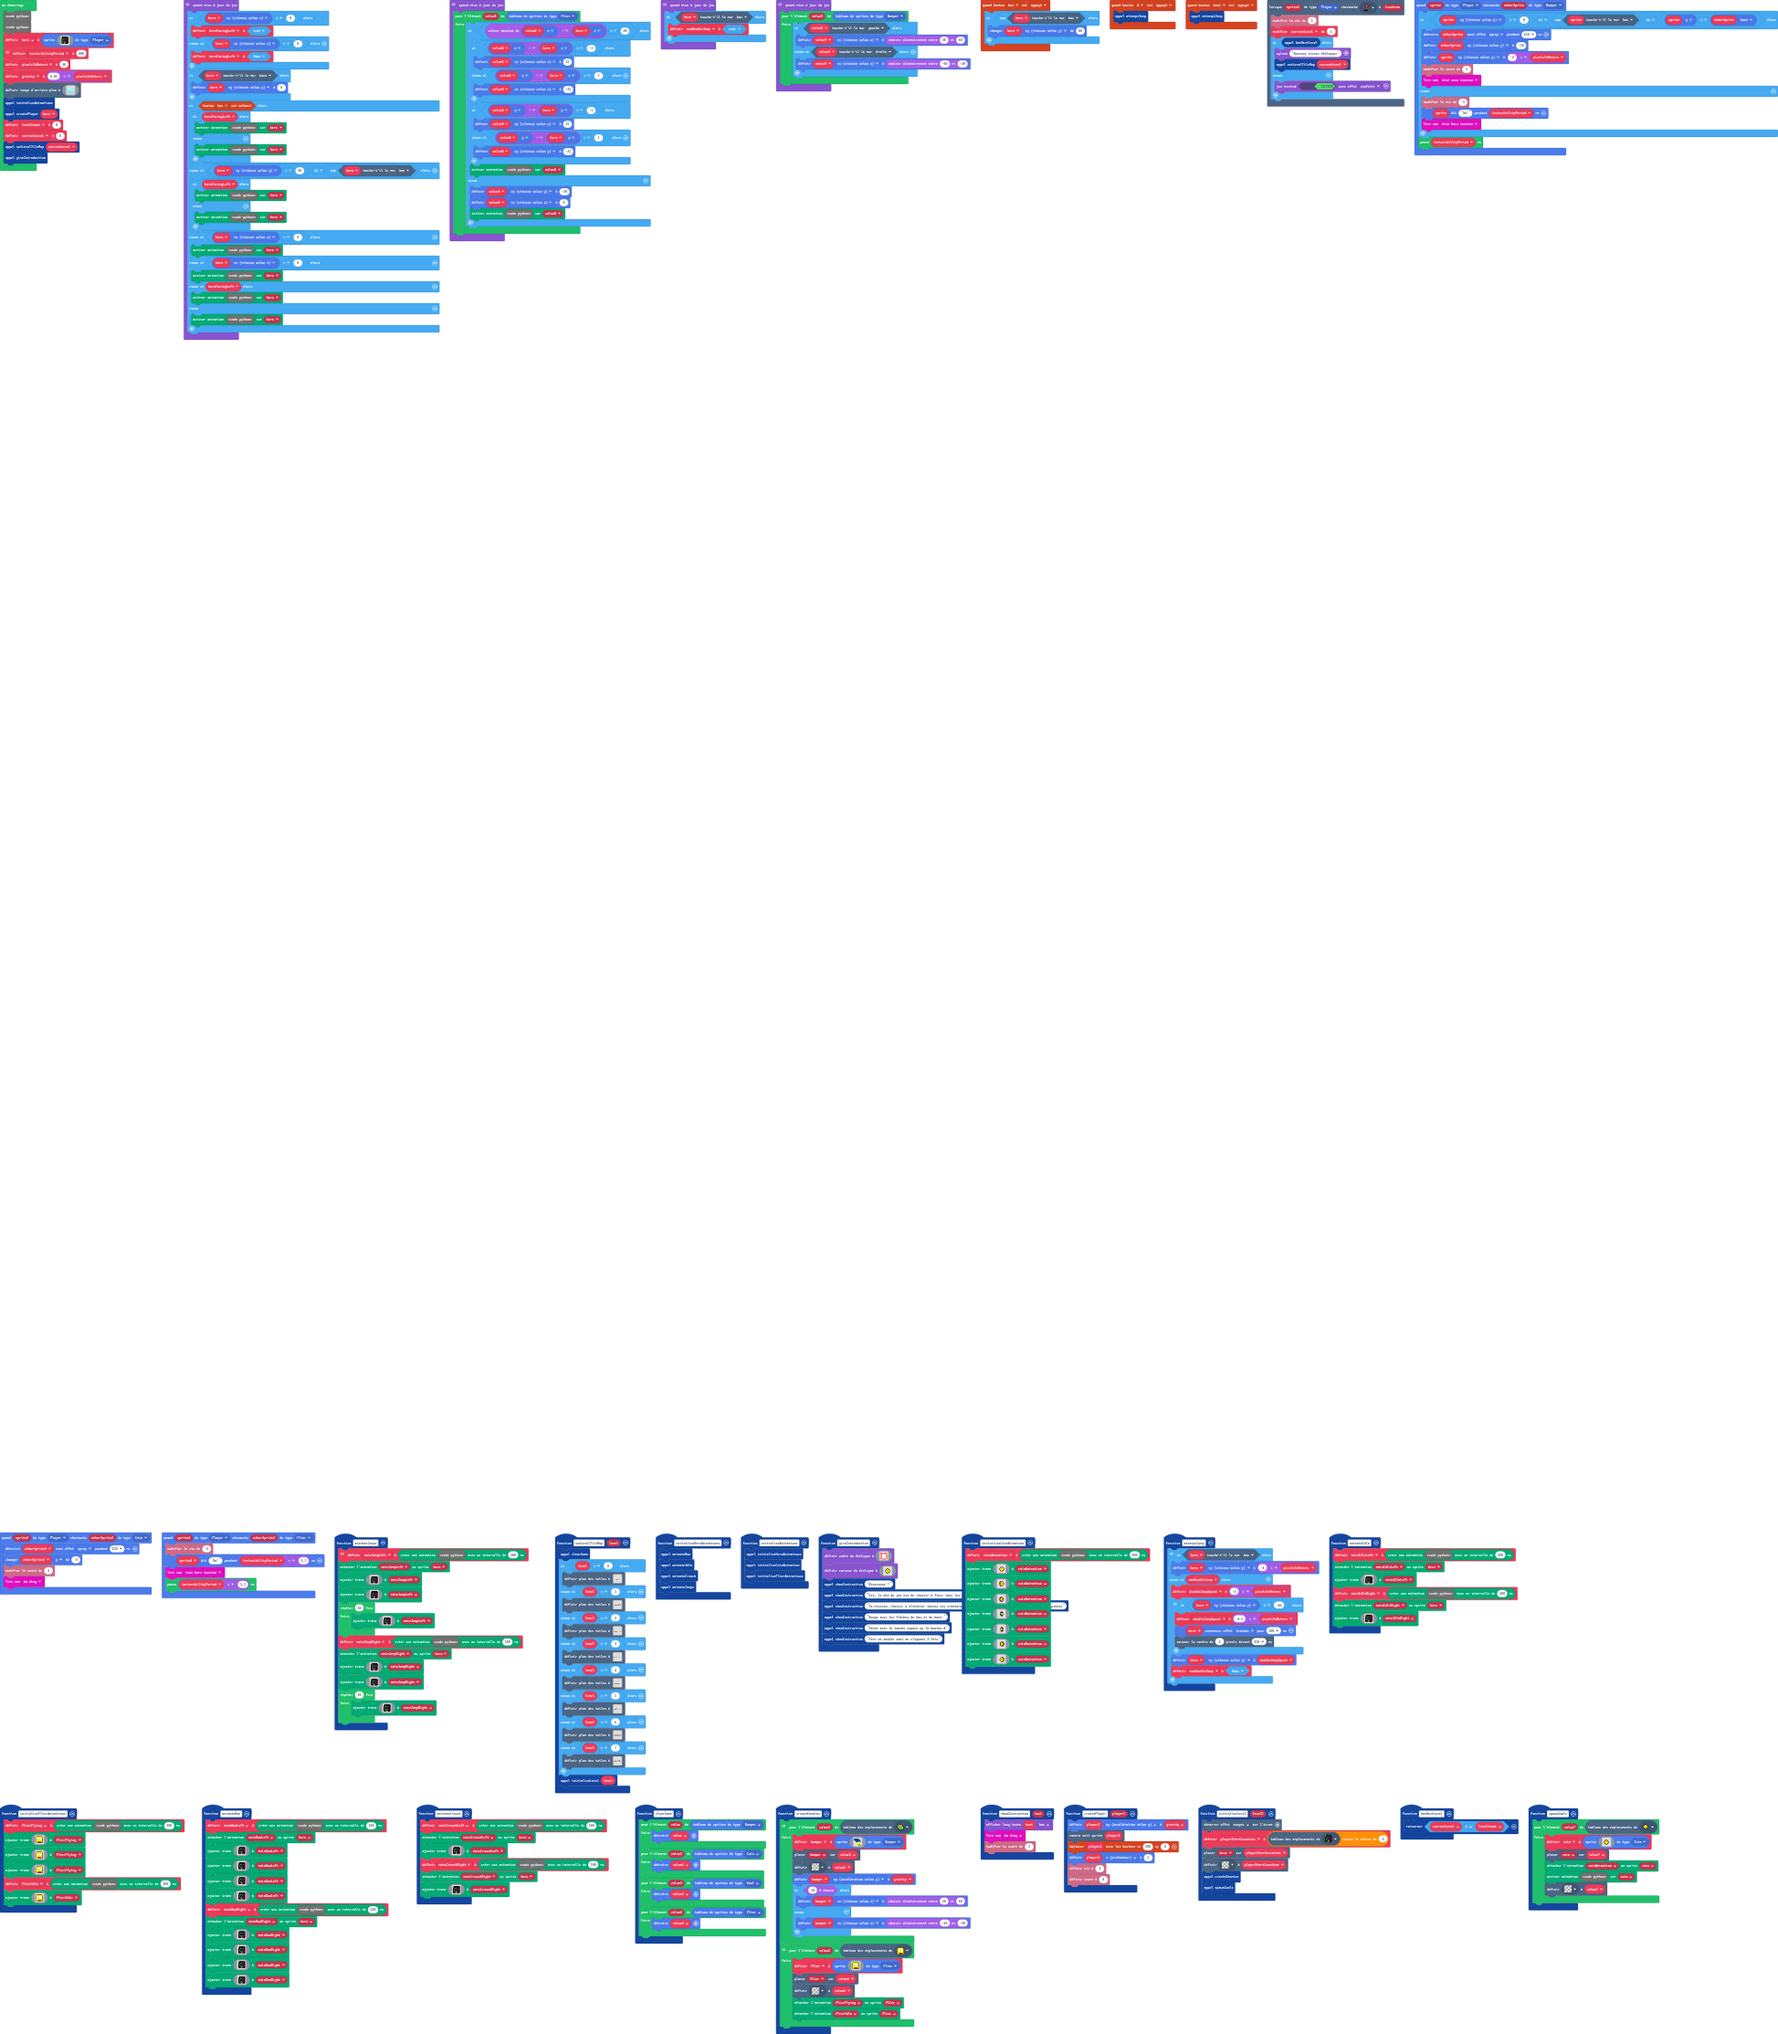
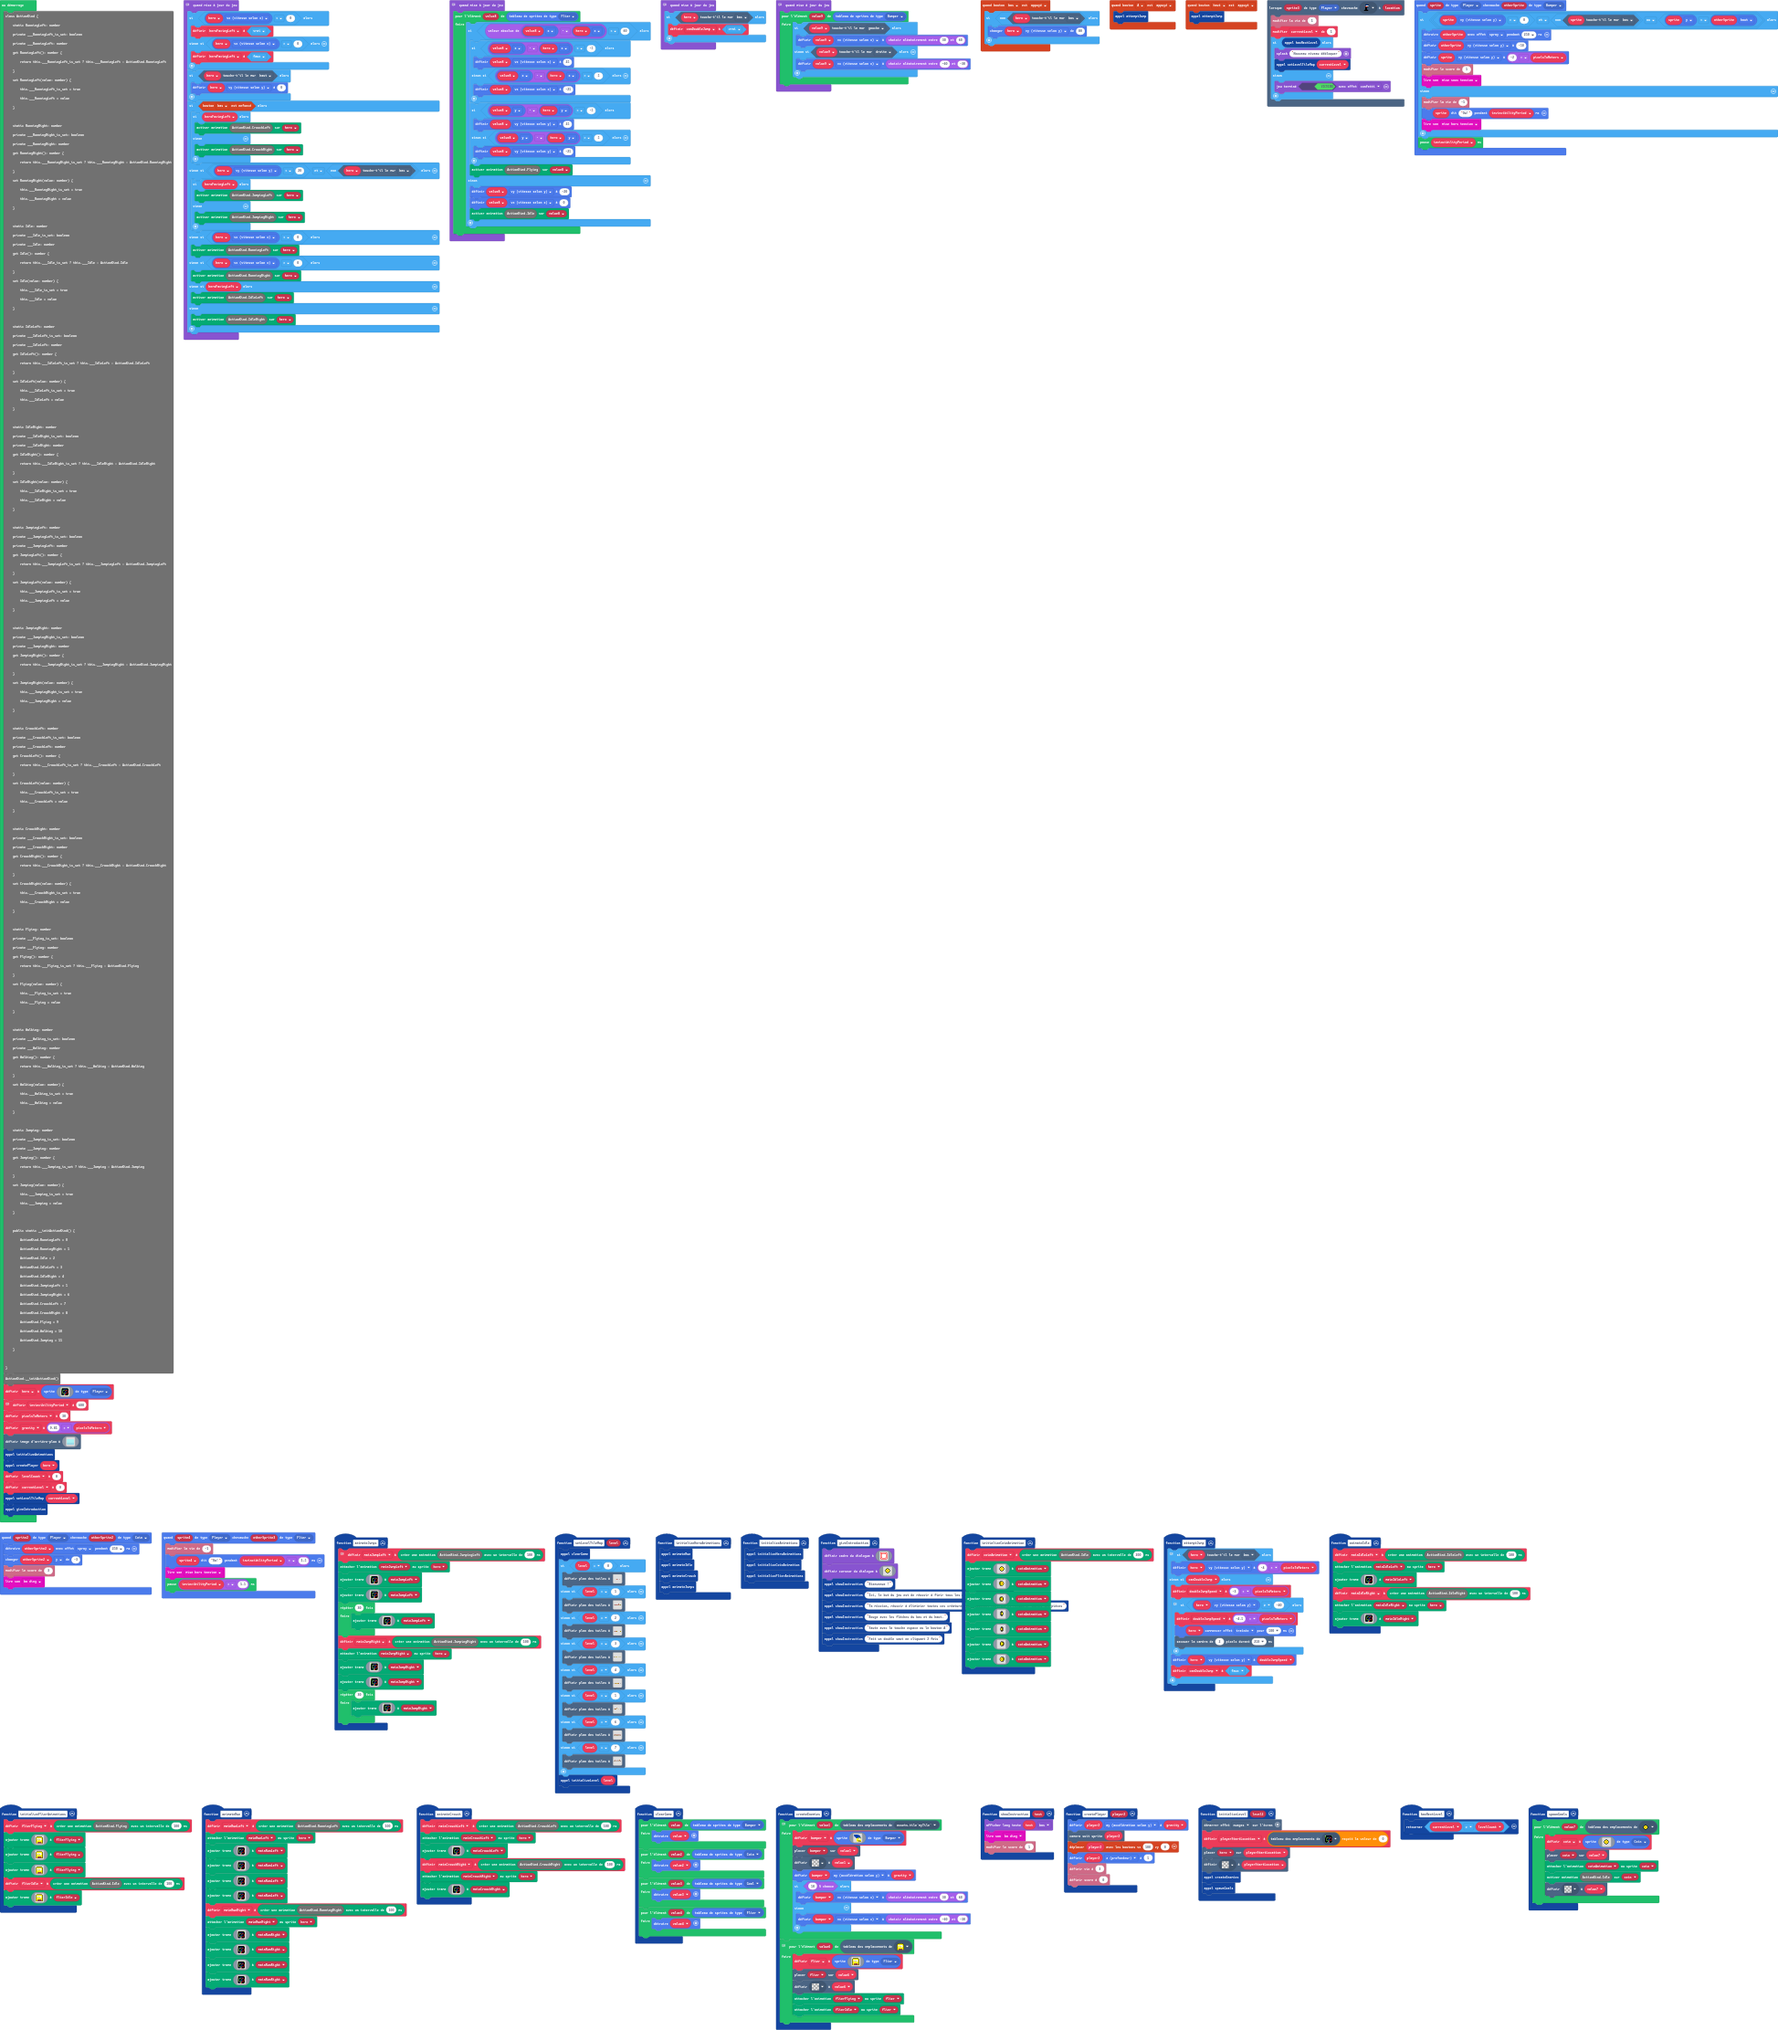
Mise à jour main.blocks, main.ts, tilemap.g.jres, tilemap.g.ts, images.g.jres, images.g.ts

diff --git a/tilemap.g.ts b/tilemap.g.ts
@@ -5,22 +5,37 @@ namespace myTiles {
     //% fixedInstance jres blockIdentity=images._tile
     export const tile0 = image.ofBuffer(hex``);
     //% fixedInstance jres blockIdentity=images._tile
-    export const tile1 = image.ofBuffer(hex``);
-    //% fixedInstance jres blockIdentity=images._tile
     export const tile2 = image.ofBuffer(hex``);
     //% fixedInstance jres blockIdentity=images._tile
     export const tile3 = image.ofBuffer(hex``);
-    //% fixedInstance jres blockIdentity=images._tile
-    export const tile4 = image.ofBuffer(hex``);
     //% fixedInstance jres blockIdentity=images._tile
     export const tile5 = image.ofBuffer(hex``);
     //% fixedInstance jres blockIdentity=images._tile
     export const tile6 = image.ofBuffer(hex``);
     //% fixedInstance jres blockIdentity=images._tile
     export const tile7 = image.ofBuffer(hex``);
+    //% fixedInstance jres blockIdentity=images._tile
+    export const tile4 = image.ofBuffer(hex``);
+    //% fixedInstance jres blockIdentity=images._tile
+    export const tile9 = image.ofBuffer(hex``);
+    //% fixedInstance jres blockIdentity=images._tile
+    export const tile1 = image.ofBuffer(hex``);
+    //% fixedInstance jres blockIdentity=images._tile
+    export const tile8 = image.ofBuffer(hex``);
 
     helpers._registerFactory("tilemap", function(name: string) {
         switch(helpers.stringTrim(name)) {
+            case "level_1":
+            case "level_1":return tiles.createTilemap(hex`2000080000000000000000000000000000000000000000060000000000000000060606060000000000000000000000000000000000000000000000000000000000000000000000000000000000000000000000000000000000000000000000000000000000000000000000000000020202020202000000000000000000000000000000000000000000000000020002060303030000000000000000000000000000030303000000000002000002000200030303000000000000000000000000000003030300040002000200000000020003030300000000000000000005000000000303030101010201020101010102010101010101010101010101010101010101010101`, img`
+. . . . . . . . . . . . . . . . . . . . . . . . . . . . . . . . 
+. . . . . . . . . . . . . . . . . . . . . . . . . . . . . . . . 
+. . . . . . . . . . . . . . . . . . . . . . . . . . . . . . . . 
+. . . . . . . . . . 2 2 2 2 2 2 . . . . . . . . . . . . . . . . 
+. . . . . . . . 2 . 2 . . . . . . . . . . . . . . . . . . . . . 
+. . . . . 2 . . 2 . 2 . . . . . . . . . . . . . . . . . . . . . 
+. . . 2 . 2 . . . . 2 . . . . . . . . . . . . . . . . . . . . . 
+2 2 2 2 2 2 2 2 2 2 2 2 2 2 2 2 2 2 2 2 2 2 2 2 2 2 2 2 2 2 2 2 
+`, [myTiles.tile0,myTiles.tile2,myTiles.tile3,myTiles.tile5,myTiles.tile6,myTiles.tile1,myTiles.tile7], TileScale.Sixteen);
             case "level":
             case "level":return tiles.createTilemap(hex`2000080000000000000000000000000000000000000000000000000000000000000000000000000000000000000000000000000000000000000000000000000000000000000000000000000005000000000000000000000000000000000000000000000000000000050000000000000000000000000000000000000000000000000000000006000000000000000000050000000000000000000000000000000000000000000000000000000003000005000300000000000000000000000000000000000300000000030000000300040000030000040003000400000400030001000000030202020203020202030202020203020202020302020202020203020202020203`, img`
 . . . . . . . . . . . . . . . . . . . . . . . . . . . . . . . . 
@@ -54,17 +69,6 @@ namespace myTiles {
 2......................................
 222222222222222222222222222222222222222
 `, [myTiles.tile0,myTiles.tile1,myTiles.tile2,myTiles.tile3,myTiles.tile4,myTiles.tile6,myTiles.tile5], TileScale.Sixteen);
-            case "level_1":
-            case "level_1":return tiles.createTilemap(hex`2000080000000000000000000000000000000000000000060000000000000000060606060000000000000000000000000000000000000000000000000000000000000000000000000000000000000000000000000000000000000000000000000000000000000000000000000000020202020202000000000000000000000000000000000000000000000000020002060303030000000000000000000000000000030303000000000002000002000200030303000000000000000000000000000003030300040002000200000000020003030300000000000000000005000000000303030101010201020101010102010101010101010101010101010101010101010101`, img`
-. . . . . . . . . . . . . . . . . . . . . . . . . . . . . . . . 
-. . . . . . . . . . . . . . . . . . . . . . . . . . . . . . . . 
-. . . . . . . . . . . . . . . . . . . . . . . . . . . . . . . . 
-. . . . . . . . . . 2 2 2 2 2 2 . . . . . . . . . . . . . . . . 
-. . . . . . . . 2 . 2 . . . . . . . . . . . . . . . . . . . . . 
-. . . . . 2 . . 2 . 2 . . . . . . . . . . . . . . . . . . . . . 
-. . . 2 . 2 . . . . 2 . . . . . . . . . . . . . . . . . . . . . 
-2 2 2 2 2 2 2 2 2 2 2 2 2 2 2 2 2 2 2 2 2 2 2 2 2 2 2 2 2 2 2 2 
-`, [myTiles.tile0,myTiles.tile2,myTiles.tile3,myTiles.tile5,myTiles.tile6,myTiles.tile1,myTiles.tile7], TileScale.Sixteen);
             case "level_2":
             case "level_2":return tiles.createTilemap(hex`2000080000000000000000000000000300000007000000070000070007000000000000000000000000000000000000030000000000000000000000000000000000000000000000000000000300000003000000000000000000000000000000000000000000000000000300030000000000000000000000000000000000000000000000000000000303030303030303030303030303030303030303030303030303030300000000030000050000050005000005000500000500050000000500000005000000060303010000040004000000040000000000040000000400000004000000030202020302020202020202020202020202020202020202020202020202020203`, img`
 . . . . . . . . . . . 2 . . . . . . . . . . . . . . . . . . . . 
@@ -117,15 +121,21 @@ namespace myTiles {
         switch(helpers.stringTrim(name)) {
             case "transparency16":return transparency16;
             case "tile0":return tile0;
-            case "tile1":return tile1;
             case "tile2":return tile2;
             case "tile3":return tile3;
-            case "tile4":return tile4;
             case "tile5":return tile5;
             case "norsys2":
             case "tile6":return tile6;
             case "homer":
             case "tile7":return tile7;
+            case "bart":
+            case "tile4":return tile4;
+            case "myTile0":
+            case "tile9":return tile9;
+            case "drapeau de la fin":
+            case "tile1":return tile1;
+            case "myTille":
+            case "tile8":return tile8;
         }
         return null;
     })

diff --git a/main.ts b/main.ts
@@ -220,6 +220,16 @@ function animateIdle () {
     animation.attachAnimation(hero, mainIdleRight)
     mainIdleRight.addAnimationFrame(assets.image`norsys`)
 }
+scene.onOverlapTile(SpriteKind.Player, assets.tile`drapeau de la fin`, function (sprite3, location) {
+    info.changeLifeBy(1)
+    currentLevel += 1
+    if (hasNextLevel()) {
+        game.splash("Nouveau niveau débloquer")
+        setLevelTileMap(currentLevel)
+    } else {
+        game.over(true, effects.confetti)
+    }
+})
 function setLevelTileMap (level: number) {
     clearGame()
     if (level == 0) {
@@ -391,7 +401,7 @@ sprites.onOverlap(SpriteKind.Player, SpriteKind.Coin, function (sprite2, otherSp
 })
 function createEnemies () {
     // enemy that moves back and forth
-    for (let value5 of tiles.getTilesByType(assets.tile`tile4`)) {
+    for (let value5 of tiles.getTilesByType(assets.tile`myTile`)) {
         bumper = sprites.create(img`
             8 8 8 8 8 8 8 8 8 . . . . . . . 
             8 8 8 8 8 8 8 8 8 8 8 8 . . . . 
@@ -408,7 +418,7 @@ function createEnemies () {
             . . . . . . 5 5 5 5 5 5 5 f 5 5 
             . . . . . . 5 5 5 f f 5 5 5 5 5 
             . . . . . . 5 5 5 5 f f f f f f 
-            . . . . . . . 5 5 5 5 5 5 5 5 . 
+            . . . . . . . 5 5 5 5 5 5 5 5 5 
             `, SpriteKind.Bumper)
         tiles.placeOnTile(bumper, value5)
         tiles.setTileAt(value5, assets.tile`tile0`)
@@ -445,16 +455,6 @@ function createEnemies () {
         animation.attachAnimation(flier, flierIdle)
     }
 }
-scene.onOverlapTile(SpriteKind.Player, assets.tile`tile1`, function (sprite3, location) {
-    info.changeLifeBy(1)
-    currentLevel += 1
-    if (hasNextLevel()) {
-        game.splash("Nouveau niveau débloquer")
-        setLevelTileMap(currentLevel)
-    } else {
-        game.over(true, effects.confetti)
-    }
-})
 sprites.onOverlap(SpriteKind.Player, SpriteKind.Flier, function (sprite4, otherSprite3) {
     info.changeLifeBy(-1)
     sprite4.say("Ow!", invincibilityPeriod * 1.5)

diff --git a/images.g.ts b/images.g.ts
@@ -60,6 +60,25 @@ f f f 8 8 f 7 7 2 2 f f f f f 7
 . . . . . . . . . . . . . . . . 
 . . . . . . . . . . . . . . . . 
 `;
+            case "image4":
+            case "myImage1":return img`
+. . . . . . . . . . . . . . . . 
+. . . . . . . f f f f . . . . . 
+. . . . . . f 8 8 8 8 f f . . . 
+. . . . . . f 8 8 8 8 8 8 f . . 
+. . . . . . f 1 1 1 1 1 1 1 f . 
+. . . . . . f 1 1 1 1 1 1 f . . 
+. . . . . . f 2 2 2 2 f f . . . 
+. . . . . . f 2 2 f f . . . . . 
+. . . . . . f f f f . . . . . . 
+. . . . . . f f f f . . . . . . 
+. . . . . . f f f f . . . . . . 
+. . . . . . f f f f . . . . . . 
+. . . . . . f f f f . . . . . . 
+. . . . . f f f f f f . . . . . 
+. . . . f f f f f f f f . . . . 
+. . . f f f f f f f f f f . . . 
+`;
         }
         return null;
     })
